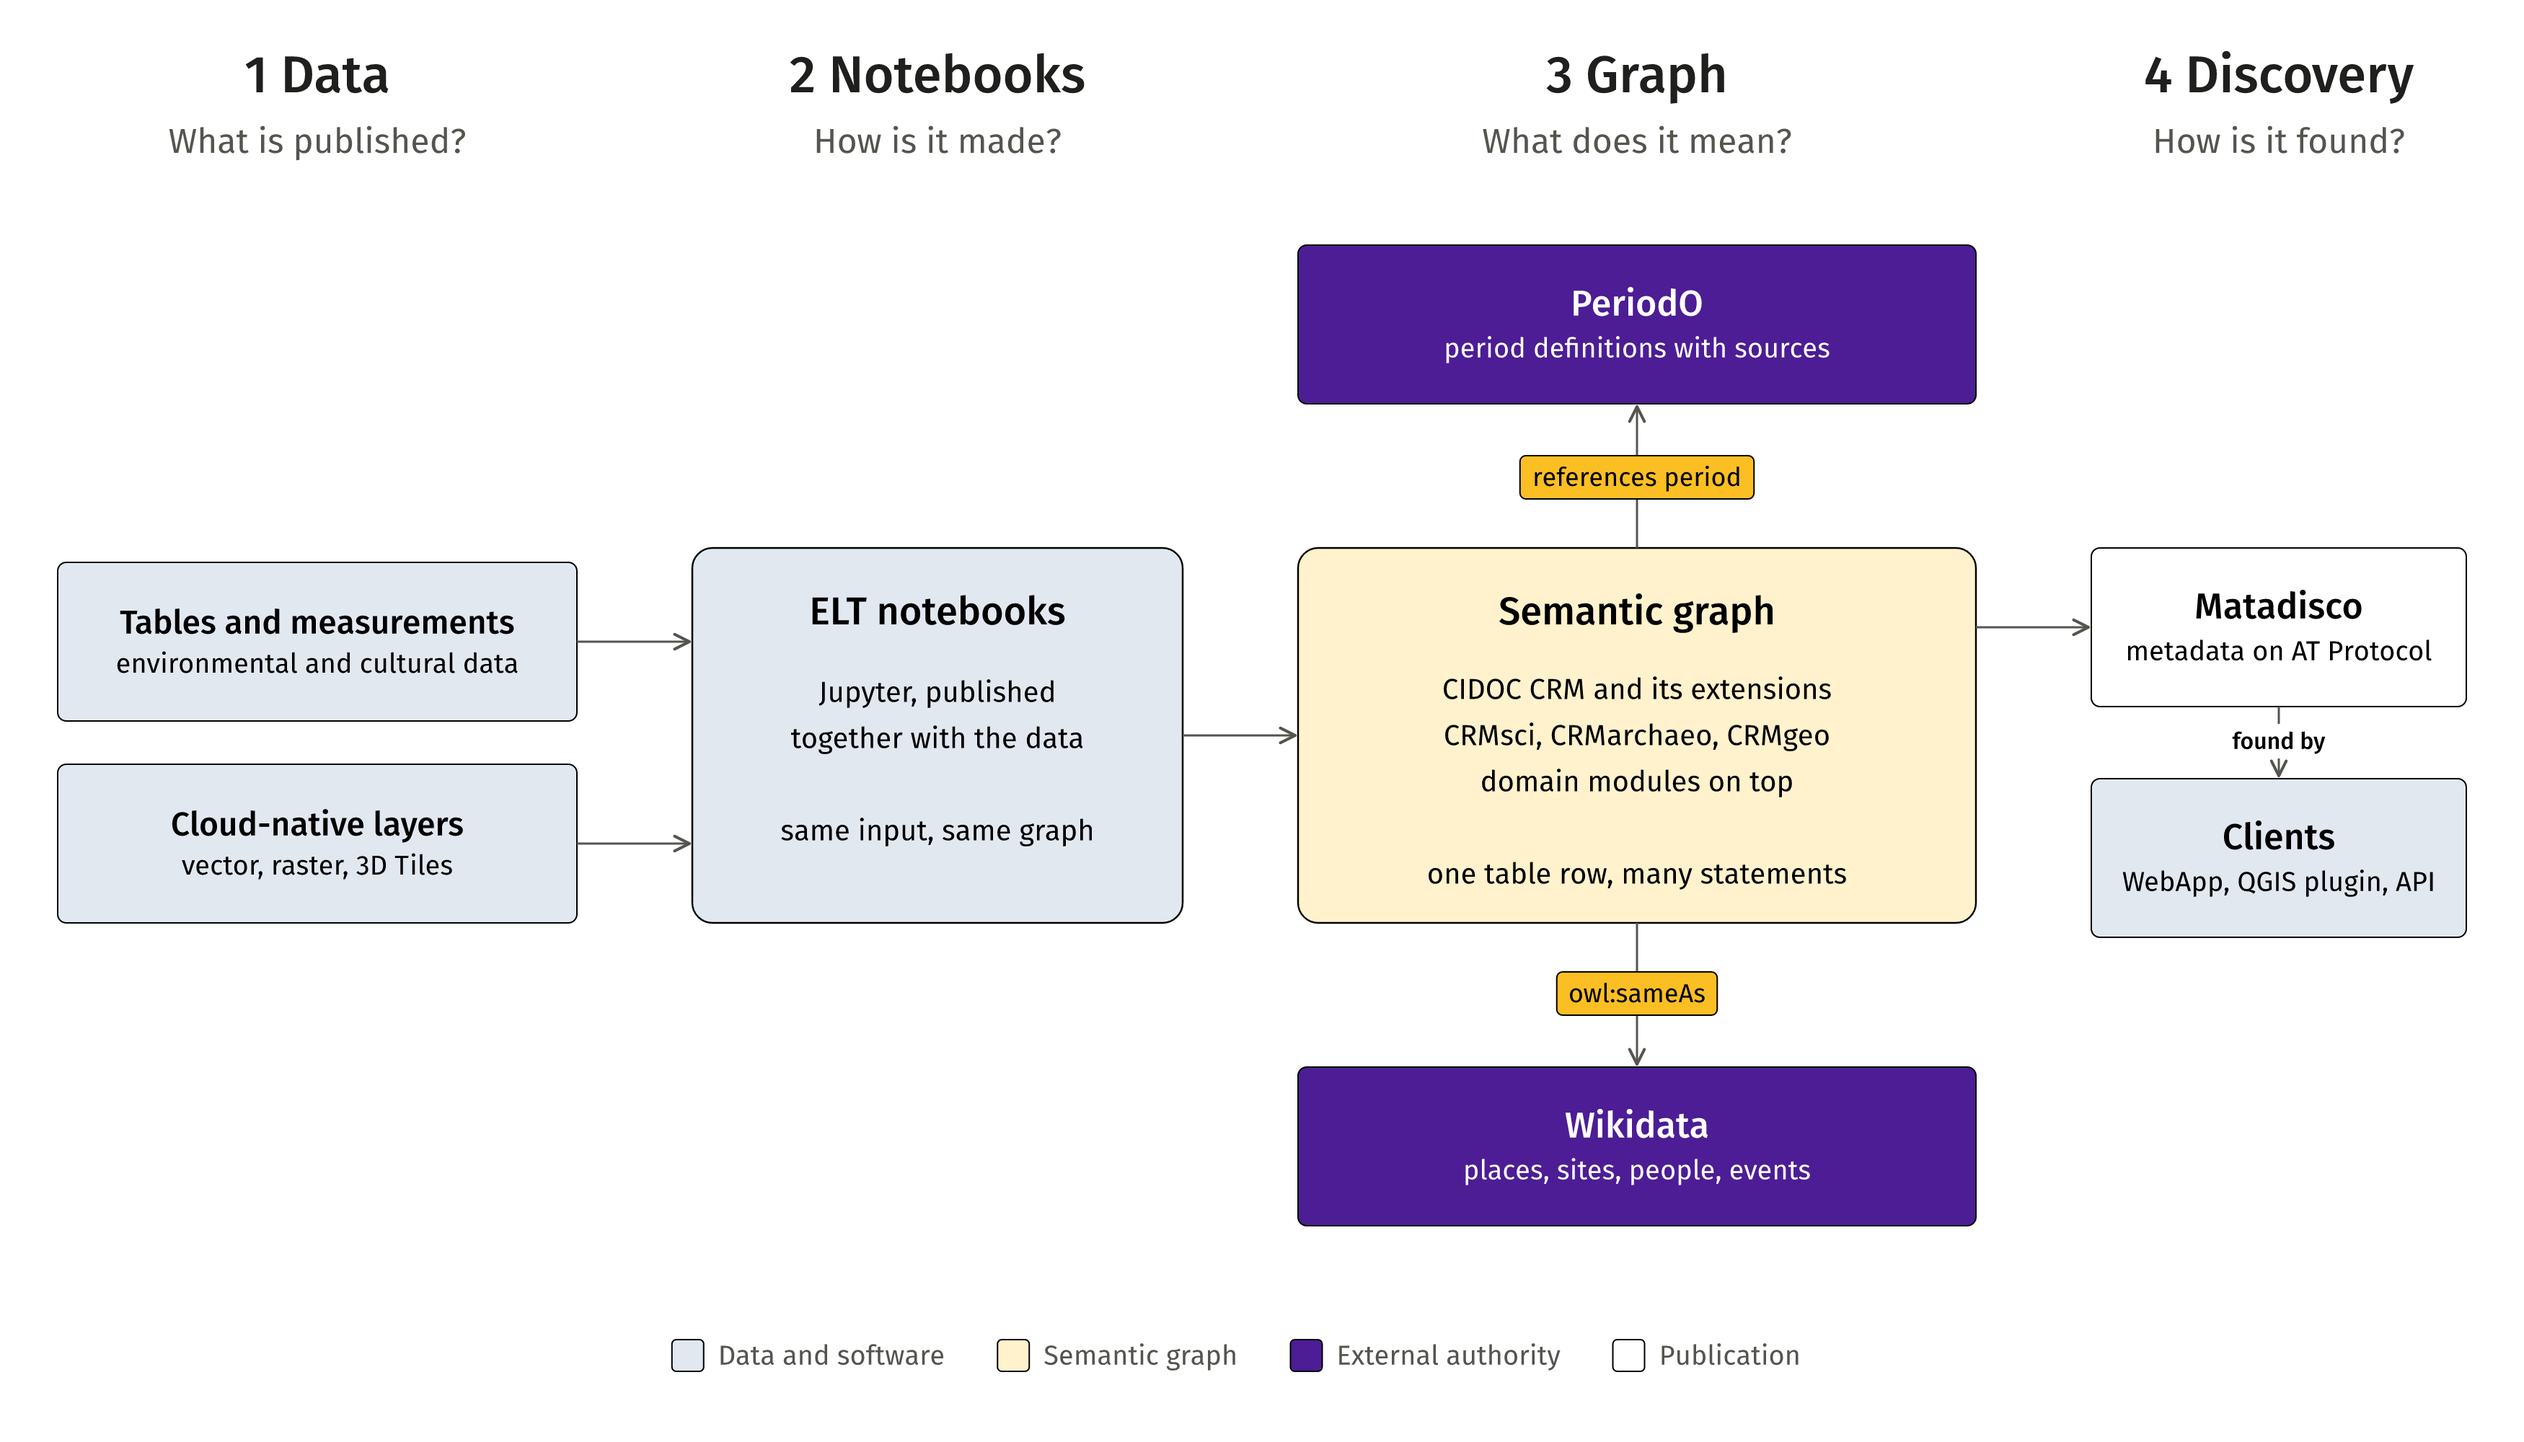
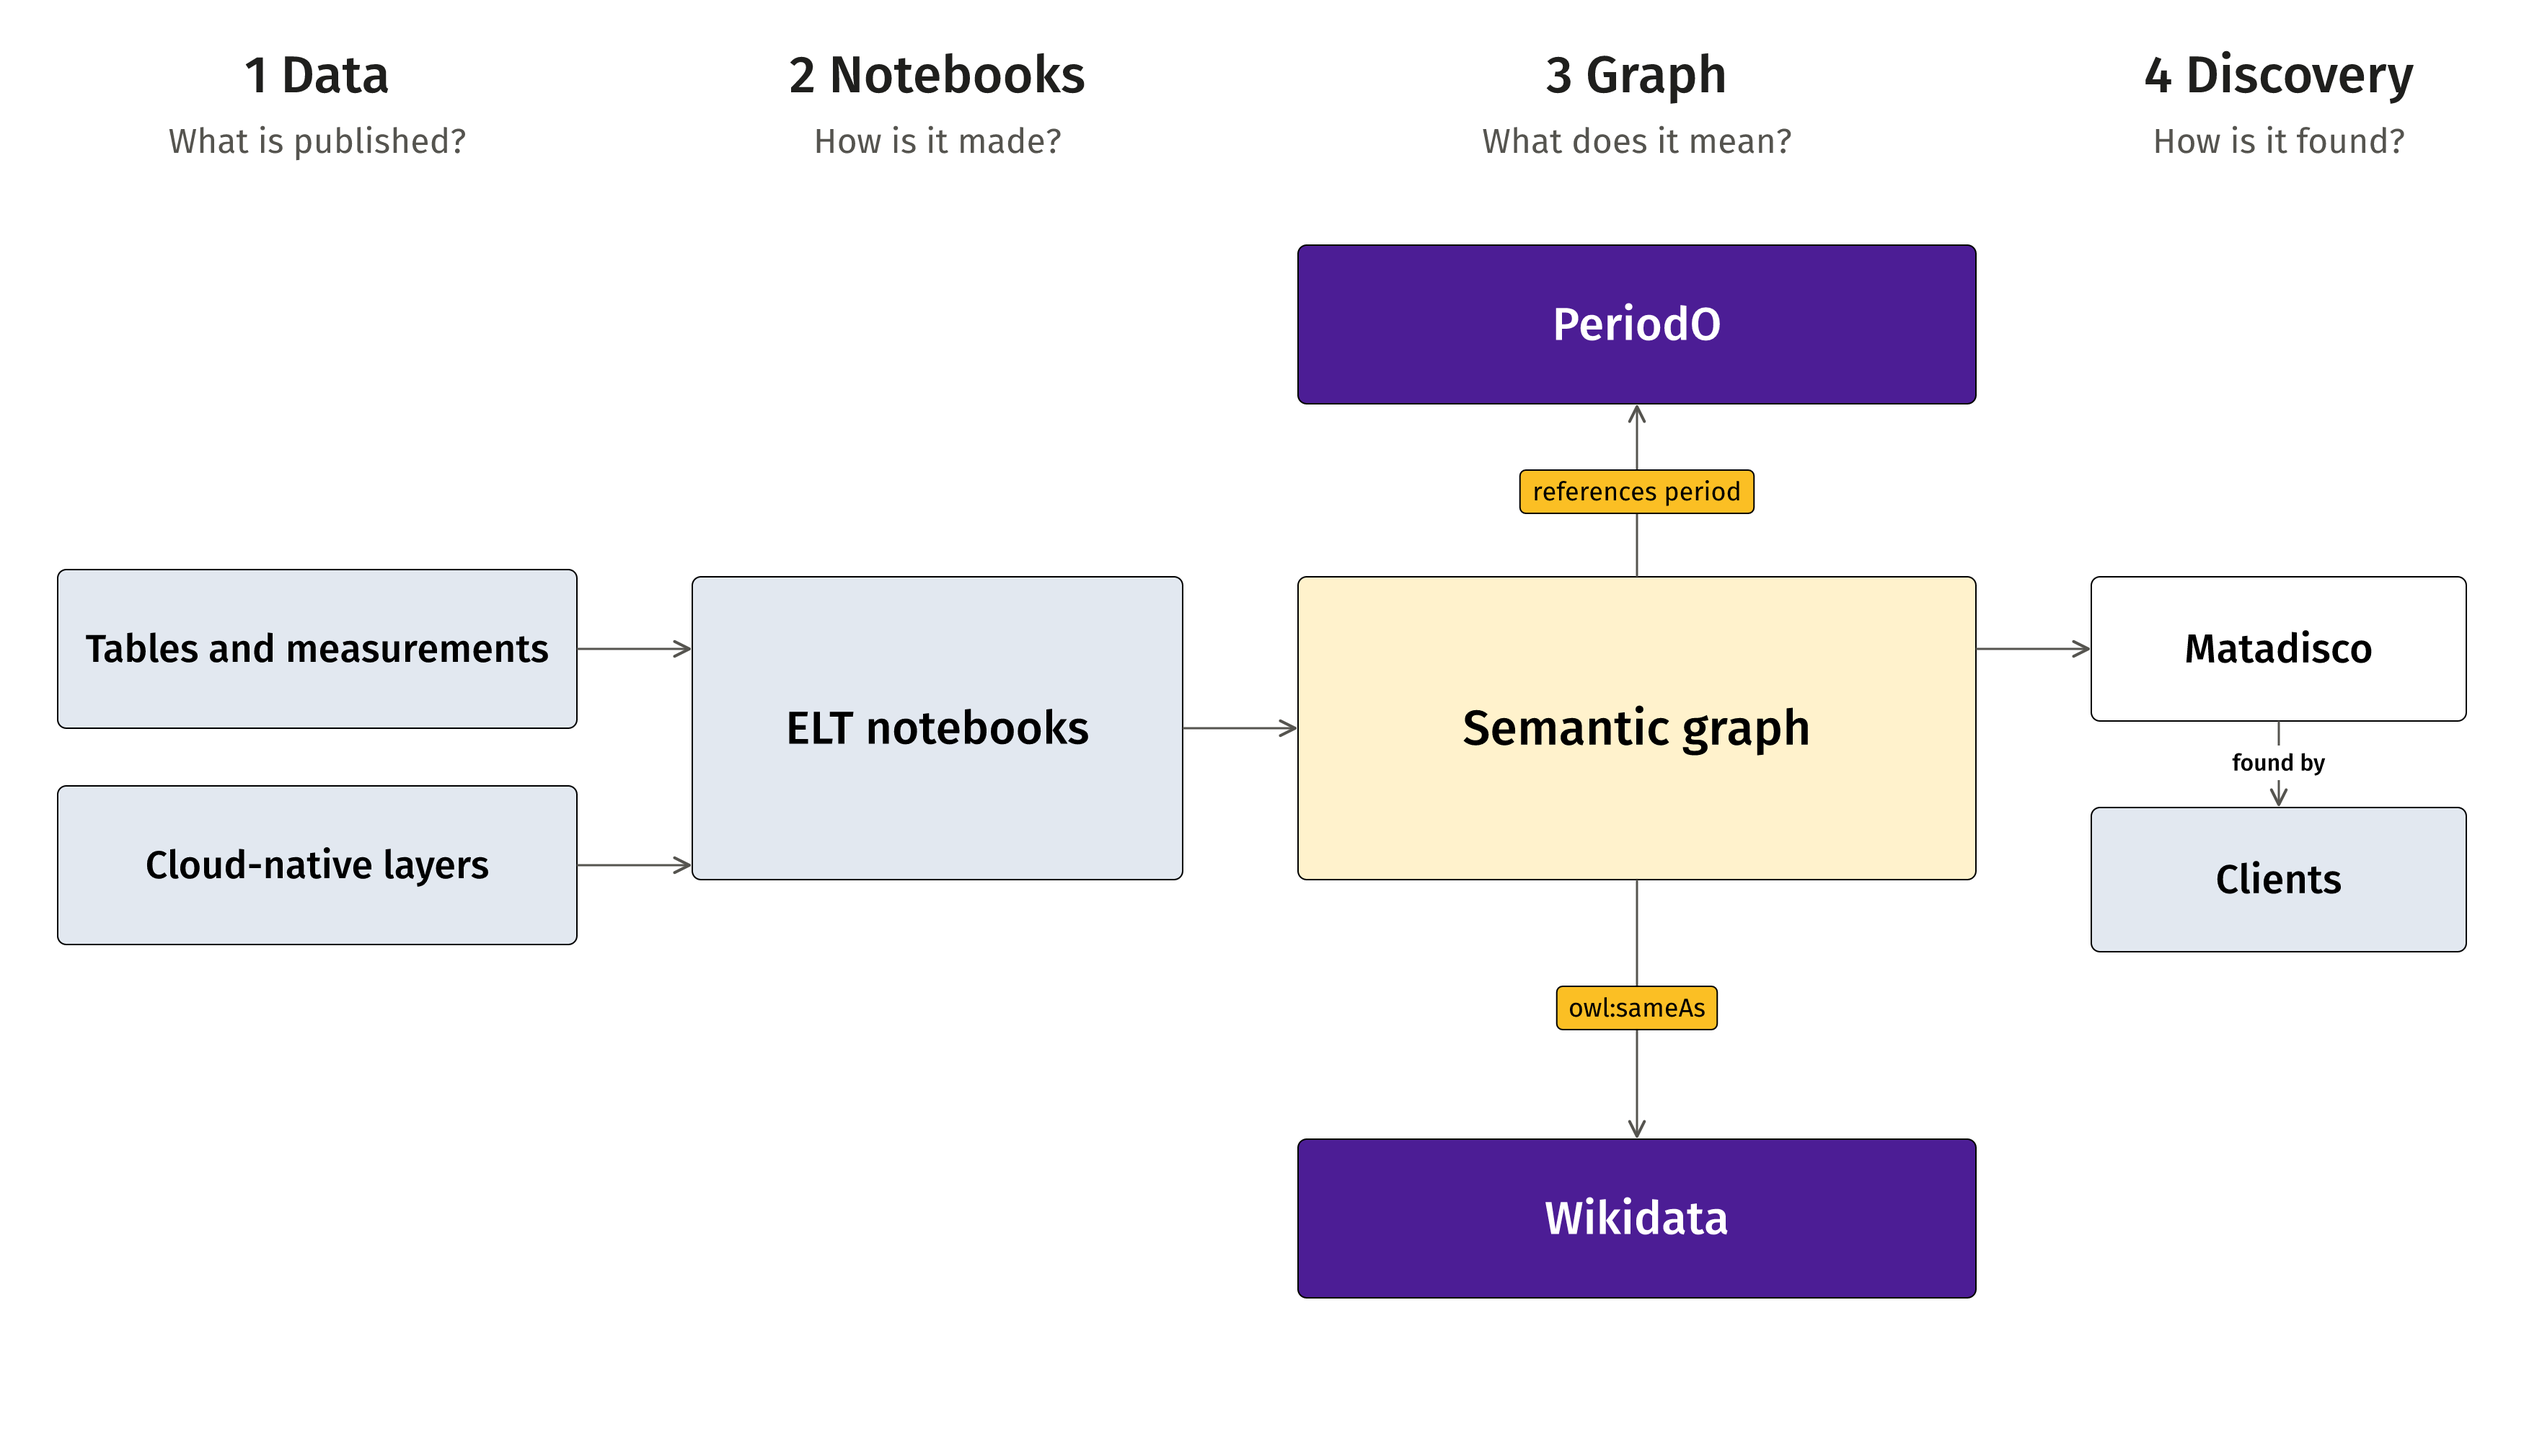
Simplify figures 13 and 14
Only the box titles are left: no legend, no sub-lines, and both figures use the full height.

diff --git a/visuals/build.py b/visuals/build.py
@@ -776,33 +776,22 @@ def fig13():
             (900, 470, "3 Graph", "What does it mean?"), (1450, 260, "4 Discovery", "How is it found?"))
     for x, w, t, s in cols:
         f.text(x+w/2, 52, t, 36, True); f.text(x+w/2, 98, s, 24, color=MUTED)
-    # 1 data
-    f.box(40, 390, 360, 110, "Tables and measurements", "environmental and cultural data", INST, 23, 19)
-    f.box(40, 530, 360, 110, "Cloud-native layers", "vector, raster, 3D Tiles", INST, 23, 19)
-    # 2 notebooks
-    f.rect(480, 380, 340, 260, INST[0], "#000000", 14, 1.2)
-    f.text(650, 424, "ELT notebooks", 27, True, "#000000")
-    for i, t in enumerate(("Jupyter, published", "together with the data", "", "same input, same graph")):
-        if t: f.text(650, 480+i*32, t, 20, color="#000000", maxw=324)
-    # 3 graph, with the two outside authorities
-    f.box(900, 170, 470, 110, "PeriodO", "period definitions with sources", TERM, 25, 19)
-    f.rect(900, 380, 470, 260, GL[0], "#000000", 14, 1.2)
-    f.text(1135, 424, "Semantic graph", 27, True, "#000000")
-    for i, t in enumerate(("CIDOC CRM and its extensions", "CRMsci, CRMarchaeo, CRMgeo", "domain modules on top", "", "one table row, many statements")):
-        if t: f.text(1135, 478+i*32, t, 20, color="#000000", maxw=454)
-    f.box(900, 740, 470, 110, "Wikidata", "places, sites, people, events", TERM, 25, 19)
-    f.line(1135, 380, 1135, 282); chip(f, 1135, 331, "references period")
-    f.line(1135, 640, 1135, 738); chip(f, 1135, 689, "owl:sameAs")
-    # 4 discovery
-    f.box(1450, 380, 260, 110, "Matadisco", "metadata on AT Protocol", OWL, 25, 19)
-    f.box(1450, 540, 260, 110, "Clients", "WebApp, QGIS plugin, API", INST, 25, 19)
-    f.line(1580, 490, 1580, 538); label(f, 1580, 514, "found by")
-    # flow
-    for y in (445, 585): f.line(400, y, 478, y)
-    f.line(820, 510, 898, 510)
-    f.line(1370, 435, 1448, 435)
-    f.legend(940, [(INST, "Data and software"), (GL, "Semantic graph"), (TERM, "External authority"), (OWL, "Publication")])
+    f.box(40, 395, 360, 110, "Tables and measurements", None, INST, 27)
+    f.box(40, 545, 360, 110, "Cloud-native layers", None, INST, 27)
+    f.box(480, 400, 340, 210, "ELT notebooks", None, INST, 32)
+    f.box(900, 170, 470, 110, "PeriodO", None, TERM, 32)
+    f.box(900, 400, 470, 210, "Semantic graph", None, GL, 34)
+    f.box(900, 790, 470, 110, "Wikidata", None, TERM, 32)
+    f.line(1135, 400, 1135, 282); chip(f, 1135, 341, "references period")
+    f.line(1135, 610, 1135, 788); chip(f, 1135, 699, "owl:sameAs")
+    f.box(1450, 400, 260, 100, "Matadisco", None, OWL, 28)
+    f.box(1450, 560, 260, 100, "Clients", None, INST, 28)
+    f.line(1580, 500, 1580, 558); label(f, 1580, 529, "found by")
+    f.line(400, 450, 478, 450); f.line(400, 600, 478, 600)
+    f.line(820, 505, 898, 505)
+    f.line(1370, 450, 1448, 450)
     f.save()
+
 
 def fig14():
     """geo-lod in one picture: three datasets, one reproducible pipeline, a CRM-based graph, publication."""
@@ -811,28 +800,24 @@ def fig14():
             (900, 470, "3 Graph", "What does it mean?"), (1450, 260, "4 Publication", "How is it reached?"))
     for x, w, t, sub in cols:
         f.text(x+w/2, 52, t, 36, True); f.text(x+w/2, 98, sub, 24, color=MUTED)
-    ys = (250, 410, 570)
-    for y, a, b in zip(ys, ("EPICA Dome C", "SISAL", "Campanian Ignimbrite"), ("ice core, five proxies", "stalagmites, 365 caves", "archaeological findspots")):
-        f.box(40, y, 360, 130, a, b, INST, 26, 20)
-    f.rect(480, 300, 340, 350, INST[0], "#000000", 14, 1.2)
-    f.text(650, 352, "Python pipeline", 28, True, "#000000")
-    for i, t in enumerate(("one command, main.py", "explicit parameters", "every age names its chronology", "no timestamps, same output")):
-        f.text(650, 425+i*50, t, 21, color="#000000", maxw=324)
-    f.rect(900, 170, 470, 640, GL[0], "#000000", 14, 1.2)
-    f.text(1135, 214, "Semantic graph", 28, True, "#000000")
-    f.box(917, 254, 436, 80, "CIDOC CRM", None, ("#d4e1f5", "#000000", "#000000"), 26, 18, rx=10)
+    ys = (255, 405, 555)
+    for y, a in zip(ys, ("EPICA Dome C", "SISAL", "Campanian Ignimbrite")):
+        f.box(40, y, 360, 130, a, None, INST, 28)
+    f.box(480, 370, 340, 200, "Python pipeline", None, INST, 32)
+    f.rect(900, 180, 470, 580, GL[0], "#000000", 14, 1.2)
+    f.text(1135, 226, "Semantic graph", 30, True, "#000000")
+    f.box(917, 264, 436, 90, "CIDOC CRM", None, ("#d4e1f5", "#000000", "#000000"), 26, 18, rx=10)
     for x, a, col in ((917, "CRMsci", "#ffcc99"), (1069, "CRMarchaeo", "#e3d5f0"), (1221, "CRMgeo", "#d9ead3")):
-        f.box(x, 356, 132, 74, a, None, (col, "#000000", "#000000"), 20, 18, rx=10)
-    f.box(917, 580, 436, 110, "Domain layer geo-lod", None, ST, 28, 19, rx=10)
-    f.line(1135, 578, 1135, 432); chip(f, 1135, 505, "anchored in the CRM family")
-    f.text(1135, 752, "one table row, many statements", 21, color="#000000", maxw=440)
-    f.box(900, 850, 470, 110, "Wikidata", "owl:sameAs, skos:closeMatch", TERM, 26, 20)
-    f.line(1135, 810, 1135, 848)
-    for y, a, b in zip(ys, ("Documentation", "SPARQL page", "Turtle and figures"), ("model and CRM coverage", "queries in the browser", "downloads, Zenodo DOI")):
-        f.box(1450, y, 260, 130, a, b, OWL, 25, 19)
-    for y in (315, 475, 635): f.line(400, y, 478, y)
-    f.line(820, 475, 898, 475)
-    for y in (315, 475, 635): f.line(1370, y, 1448, y)
+        f.box(x, 376, 132, 90, a, None, (col, "#000000", "#000000"), 20, 18, rx=10)
+    f.box(917, 590, 436, 140, "Domain layer geo-lod", None, ST, 28, 19, rx=10)
+    f.line(1135, 588, 1135, 468); chip(f, 1135, 528, "anchored in the CRM family")
+    f.box(900, 810, 470, 120, "Wikidata", None, TERM, 30)
+    f.line(1135, 760, 1135, 808)
+    for y, a in zip(ys, ("Documentation", "SPARQL page", "Turtle and figures")):
+        f.box(1450, y, 260, 130, a, None, OWL, 27)
+    f.line(400, 320, 478, 420); f.line(400, 470, 478, 470); f.line(400, 620, 478, 520)
+    f.line(820, 470, 898, 470)
+    for y in ys: f.line(1370, y+65, 1448, y+65)
     f.save()
 
 
